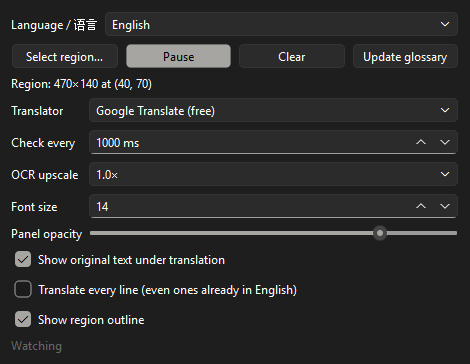
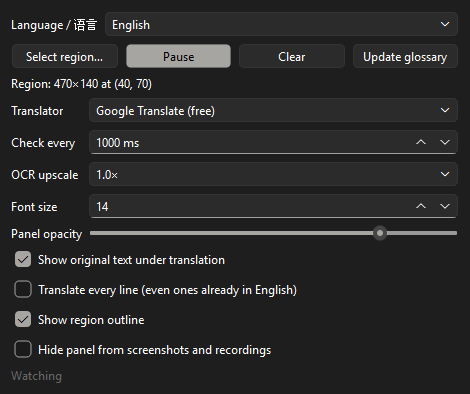
Show the translation panel in screenshots by default
Hiding the panel from all screen capture (to stop it being re-OCR'd)
also hid it from the user's own screenshots and recordings. It's now an
opt-in setting; by default the part of the watched region the panel
covers is masked out of the capture instead.

diff --git a/chat_translator/app.py b/chat_translator/app.py
@@ -16,15 +16,29 @@ from .i18n import LANGUAGES, tr
 from .translate import BACKENDS
 from .worker import Worker
 
+WDA_NONE = 0x00
 WDA_EXCLUDEFROMCAPTURE = 0x11
 
 
-def exclude_from_capture(widget: QWidget) -> None:
-    """Hide our own windows from screen capture so translations overlapping the region aren't re-OCR'd."""
+def set_capture_hidden(widget: QWidget, hidden: bool) -> None:
+    """Hide/show one of our windows in ALL screen capture (screenshots, recording, streaming, and our own OCR)."""
     try:
-        ctypes.windll.user32.SetWindowDisplayAffinity(int(widget.winId()), WDA_EXCLUDEFROMCAPTURE)
+        ctypes.windll.user32.SetWindowDisplayAffinity(
+            int(widget.winId()), WDA_EXCLUDEFROMCAPTURE if hidden else WDA_NONE)
     except (AttributeError, OSError):
         pass
+
+
+def mask_rect(frame: np.ndarray, region: QRect, cover: QRect) -> None:
+    """Black out the part of a captured region that `cover` (one of our windows) sits on,
+    so our own translations are never OCR'd back in."""
+    overlap = region.intersected(cover)
+    if overlap.isEmpty():
+        return
+    sx, sy = frame.shape[1] / region.width(), frame.shape[0] / region.height()  # logical -> pixels
+    x0, y0 = int((overlap.left() - region.left()) * sx), int((overlap.top() - region.top()) * sy)
+    x1, y1 = int((overlap.right() + 1 - region.left()) * sx), int((overlap.bottom() + 1 - region.top()) * sy)
+    frame[y0:y1, x0:x1] = 0
 
 
 def grab_region(rect: QRect) -> np.ndarray | None:
@@ -111,11 +125,6 @@ class RegionOutline(QWidget):
         p = QPainter(self)
         p.setPen(QPen(QColor(0, 200, 255, 180), 2, Qt.PenStyle.DashLine))
         p.drawRect(self.rect().adjusted(1, 1, -2, -2))
-
-    def showEvent(self, e):
-        super().showEvent(e)
-        exclude_from_capture(self)
-
 
 class FeedPanel(QWidget):
     """Always-on-top translucent panel listing translated messages, with a reply box at the bottom."""
@@ -233,7 +242,7 @@ class FeedPanel(QWidget):
 
     def showEvent(self, e):
         super().showEvent(e)
-        exclude_from_capture(self)
+        set_capture_hidden(self, bool(self.cfg["hide_from_capture"]))
 
 
 class ControlWindow(QWidget):
@@ -337,6 +346,9 @@ class ControlWindow(QWidget):
         self.show_outline = QCheckBox()
         self.show_outline.setChecked(self.cfg["show_outline"])
         self.show_outline.toggled.connect(self.on_settings)
+        self.hide_from_capture = QCheckBox()
+        self.hide_from_capture.setChecked(self.cfg["hide_from_capture"])
+        self.hide_from_capture.toggled.connect(self.on_settings)
 
         self.form = QFormLayout()
         self.form_rows = {}  # i18n key -> (label, field)
@@ -358,7 +370,7 @@ class ControlWindow(QWidget):
         lay.addLayout(buttons)
         lay.addWidget(self.region_label)
         lay.addLayout(self.form)
-        for w in (self.show_original, self.translate_all, self.show_outline, self.status):
+        for w in (self.show_original, self.translate_all, self.show_outline, self.hide_from_capture, self.status):
             lay.addWidget(w)
         self.retranslate()
         self.set_status(self.t("starting"))
@@ -382,6 +394,8 @@ class ControlWindow(QWidget):
         self.show_original.setText(self.t("show_original"))
         self.translate_all.setText(self.t("translate_all"))
         self.show_outline.setText(self.t("show_outline"))
+        self.hide_from_capture.setText(self.t("hide_from_capture"))
+        self.hide_from_capture.setToolTip(self.t("hide_from_capture_tip"))
         self.update_region_label()
         self.panel.retranslate()
 
@@ -407,6 +421,8 @@ class ControlWindow(QWidget):
         self.cfg["show_original"] = self.show_original.isChecked()
         self.cfg["translate_all"] = self.translate_all.isChecked()
         self.cfg["show_outline"] = self.show_outline.isChecked()
+        self.cfg["hide_from_capture"] = self.hide_from_capture.isChecked()
+        set_capture_hidden(self.panel, self.cfg["hide_from_capture"])
         self.timer.setInterval(self.cfg["interval_ms"])
         self.panel.apply_style()
         self.update_outline()
@@ -479,6 +495,8 @@ class ControlWindow(QWidget):
     def tick(self):
         if self.region:
             frame = grab_region(self.region)
+            if frame is not None and not self.cfg["hide_from_capture"] and self.panel.isVisible():
+                mask_rect(frame, self.region, self.panel.frameGeometry())
             if frame is not None:
                 self.worker.submit(frame)
 

diff --git a/chat_translator/i18n.py b/chat_translator/i18n.py
@@ -28,6 +28,9 @@ STRINGS = {
         "show_original": "Show original text under translation",
         "translate_all": "Translate every line (even ones already in English)",
         "show_outline": "Show region outline",
+        "hide_from_capture": "Hide panel from screenshots and recordings",
+        "hide_from_capture_tip": "Lets the panel sit on top of the chat while the text underneath is still read. "
+                                 "Off: the panel shows in screenshots, and any chat it covers is skipped.",
         "region_none": "Region: none — click “Select region…”",
         "region": "Region: {w}×{h} at ({x}, {y})",
         "select_hint": "Drag a box around the chat.  Esc to cancel.",
@@ -71,6 +74,9 @@ STRINGS = {
         "show_original": "在译文下方显示原文",
         "translate_all": "翻译所有行（包括已是中文的行）",
         "show_outline": "显示区域边框",
+        "hide_from_capture": "在截图和录屏中隐藏面板",
+        "hide_from_capture_tip": "开启后，面板可以覆盖在聊天窗口上，下面的文字仍能被识别。"
+                                 "关闭时，截图中可以看到面板，被面板挡住的聊天内容会被跳过。",
         "region_none": "区域：未选择 — 请点击“选择区域…”",
         "region": "区域：{w}×{h}，位置 ({x}, {y})",
         "select_hint": "拖动鼠标框选聊天窗口。按 Esc 取消。",

diff --git a/chat_translator/config.py b/chat_translator/config.py
@@ -17,6 +17,7 @@ DEFAULTS = {
     "translate_all": False,  # False: only lines mostly in the other language
     "show_original": True,
     "show_outline": True,
+    "hide_from_capture": False,  # True: panel invisible to screenshots/recording (and to our OCR)
     "font_size": 14,
     "opacity": 0.8,
     "ocr_min_score": 0.6,

diff --git a/README.md b/README.md
@@ -53,8 +53,10 @@ the watched area. Click **Pause** / **Start** any time, or **Select region…** 
 ### 3. Read the translations
 
 New messages appear in the translation panel ②, translation first with the original in grey underneath.
-Drag the panel by its top bar and resize it from the bottom-right corner. It can safely sit on top of
-the chat, because the app never reads its own panel.
+Drag the panel by its top bar and resize it from the bottom-right corner. The app never reads its own
+panel: any chat the panel covers is skipped. To put the panel on top of the chat and still have the chat
+underneath read, tick **Hide panel from screenshots and recordings**. The panel then won't appear in
+screenshots, recordings or streams.
 
 ### 4. Reply
 

diff --git a/README.zh-CN.md b/README.zh-CN.md
@@ -62,7 +62,9 @@ EVE Online 聊天实时翻译悬浮窗，支持**英文 ⇄ 中文**。框选游
 ### 3. 查看译文
 
 新消息会出现在翻译面板中（②）：上面是译文，下面灰色小字是原文。拖动面板顶部的标题栏可以移动，
-拖动右下角可以调整大小。面板可以放在聊天窗口上方，软件不会识别自己的面板。
+拖动右下角可以调整大小。软件不会识别自己的面板：被面板挡住的聊天内容会被跳过。
+如果想把面板放在聊天窗口上方、同时仍识别下面的文字，请勾选 **在截图和录屏中隐藏面板**
+（开启后，截图、录屏和直播中都看不到面板）。
 
 ### 4. 回复
 
